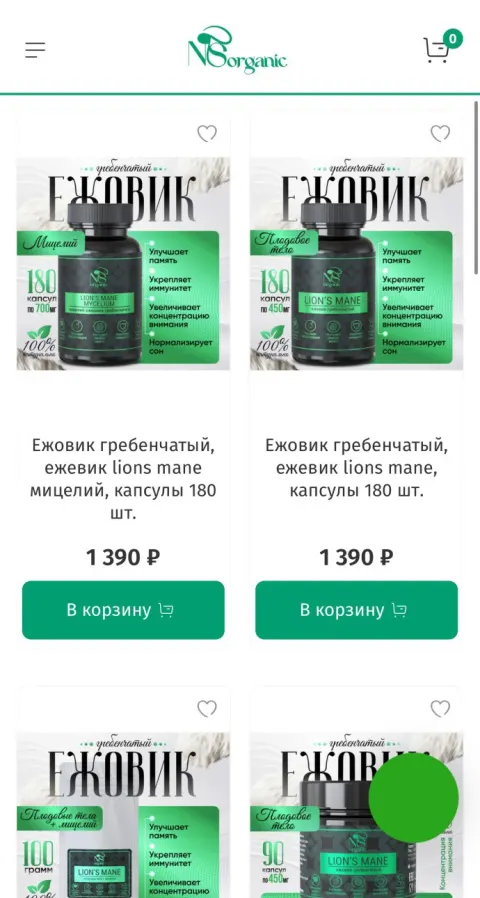
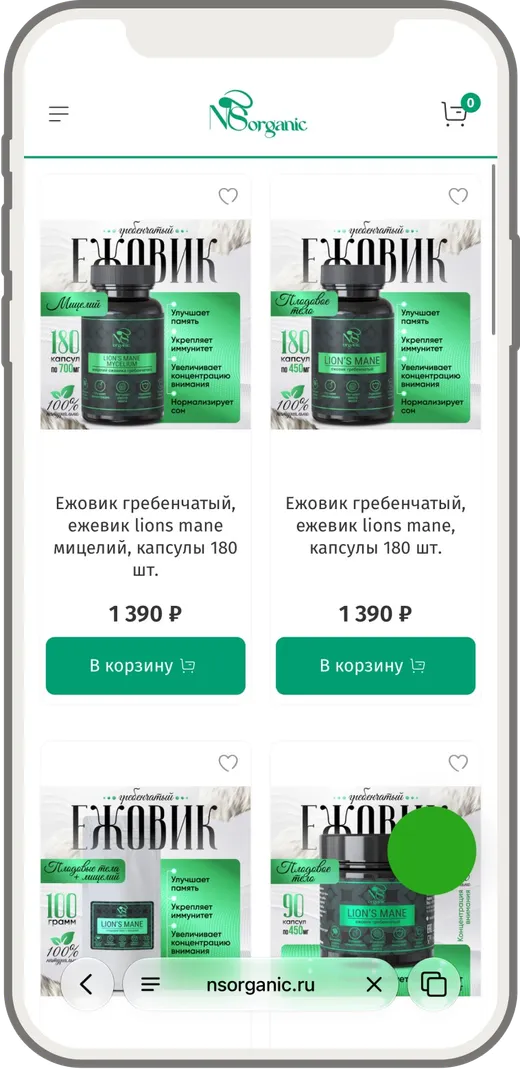
Лендинг InSales: телефоны из макетов целиком, экран не обрезается (dev)

diff --git a/src/styles/tokens.css b/src/styles/tokens.css
@@ -72,8 +72,6 @@
   --radius-card: 20px;
   --radius-btn: 13px;
   --radius-sm: 10px;
-  --radius-phone: 28px; /* рамка телефона в ленте мобильных версий */
-  --phone-frame: #1d1d1f;
 
   /* Типографика: Glober (src/styles/fonts.css) */
   --font: 'Glober', Arial, sans-serif;
@@ -130,7 +128,6 @@
     --sec-dev-done: #1b3a22;
     --sec-marketing-done: #2c3131;
     --wheel-line: #2c3836;
-    --phone-frame: #3a3a3c;
     --shadow-card: none;
     --shadow-pop: 0 0 18px 0 rgba(0, 0, 0, 0.6);
     --shadow-icon: 0 0 5px 0 rgba(0, 0, 0, 0.6);
@@ -178,7 +175,6 @@
   --sec-dev-done: #1b3a22;
   --sec-marketing-done: #2c3131;
   --wheel-line: #2c3836;
-  --phone-frame: #3a3a3c;
   --shadow-card: none;
   --shadow-pop: 0 0 18px 0 rgba(0, 0, 0, 0.6);
   --shadow-icon: 0 0 5px 0 rgba(0, 0, 0, 0.6);

diff --git a/CHANGELOG.md b/CHANGELOG.md
@@ -127,7 +127,7 @@
 
 ### 27.10.2026
 
-- (dev) Лендинг InSales: отдельный блок «Как эти магазины выглядят в телефоне» после кейсов — восемь магазинов в тонкой графитовой рамке телефона (Happy Animal, Duman, Aloha Gaia, Zalina Verkhovskaya, Wizzu, Geekboards, Almatennis, NSOrganic). Лента идёт до краёв карточки, без полосы прокрутки: на компьютере листается стрелками, на телефоне свайпом. Скрины владельца обрезаны по экрану и сжаты в webp ~10–38 КБ (`public/cases/mobile/`). Новые токены `--phone-frame` и `--radius-phone`.
+- (dev) Лендинг InSales: отдельный блок «Как эти магазины выглядят в телефоне» после кейсов — восемь макетов владельца (Happy Animal, Duman, Aloha Gaia, Zalina Verkhovskaya, Wizzu, Geekboards, Almatennis, NSOrganic). Телефон берётся из макета целиком, со своей рамкой и строкой браузера: экран не обрезается, фон вокруг прозрачный — подходит к обеим темам. Лента идёт до краёв карточки, без полосы прокрутки: на компьютере стрелки, на телефоне свайп. Новые макеты — `node scripts/mobile-shots.mjs <папка> id1 id2 …`, результат в `public/cases/mobile/` (webp 19–52 КБ).
 
 ### Дальше
 
